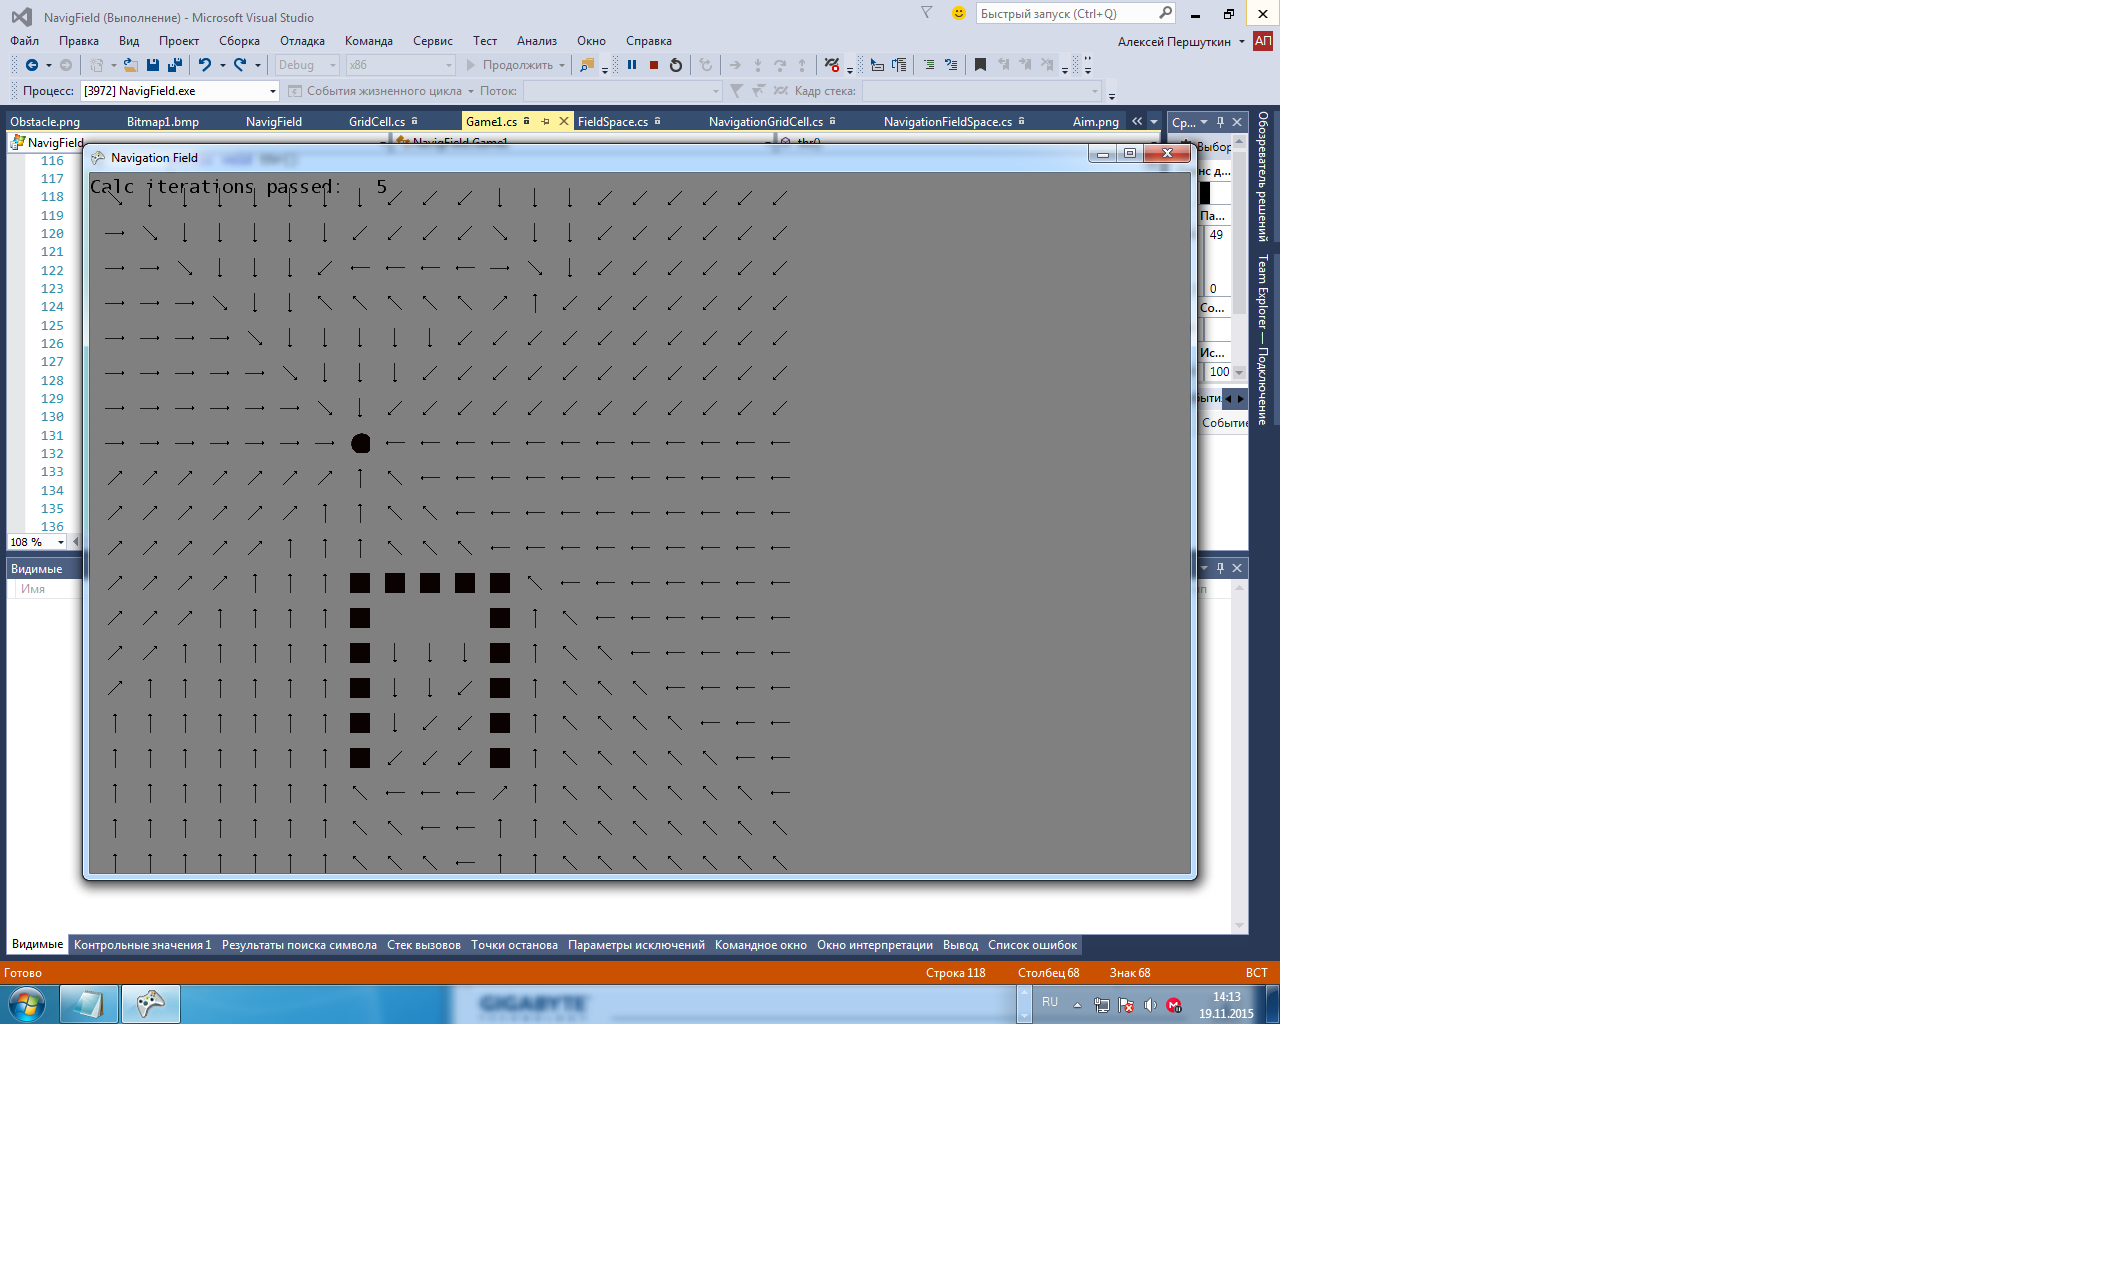
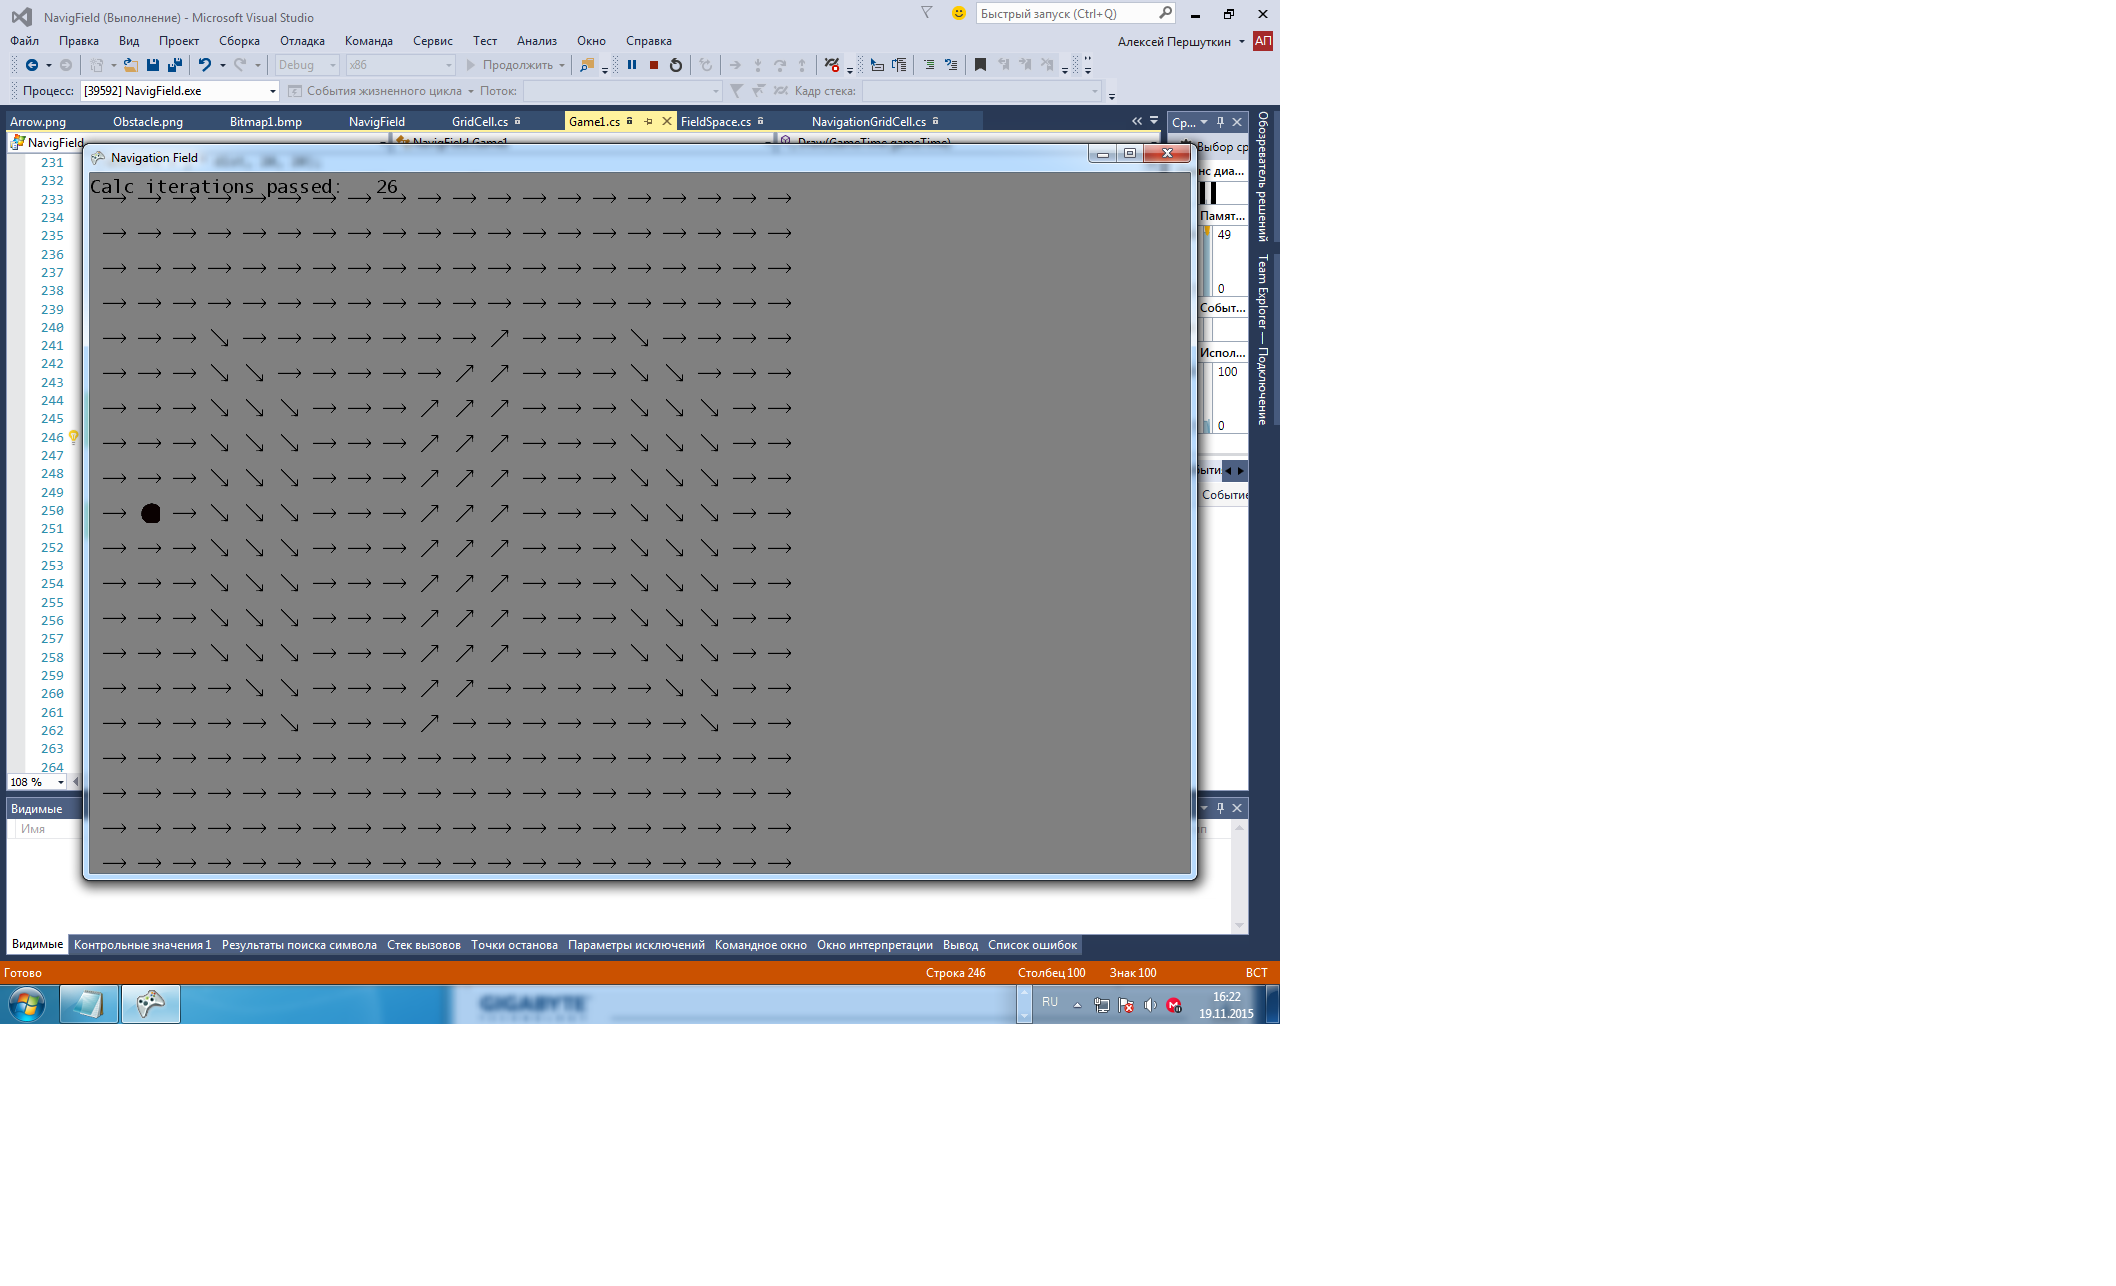
Runnable template was maximized and became more informative.

diff --git a/NavigField/NavigField/Game1.cs b/NavigField/NavigField/Game1.cs
@@ -38,8 +38,7 @@ namespace NavigField
                 
         FieldSpace GuidanseFieldSpace1;
         NavigationFieldSpace NavigationFieldSpace1;
-
-        
+     
 
         public Game1()
         {            
@@ -71,10 +70,10 @@ namespace NavigField
                 for (int j = 0; j < 10; j++)
                     GuidanseFieldSpace1.UpdateCell(false, i, j, 0 * Math.PI/4, 0);
                         
-            NavigationFieldSpace1 = new NavigationFieldSpace();
+            NavigationFieldSpace1 = new NavigationFieldSpace(50, 30);
 
             System.Threading.Thread t = new System.Threading.Thread(thr);
-            NavigationFieldSpace1.sleepTime = 1;
+            NavigationFieldSpace1.sleepTime = 10;
             t.Start();
 
 
@@ -184,21 +183,49 @@ namespace NavigField
                 a0 = Math.Asin(sin);
 
                 */
-                double[] a = { Math.PI / 4, Math.PI / 4, Math.PI / 4, 0, 0, 0, -Math.PI / 4, -Math.PI / 4, -Math.PI / 4, 0, 0, 0, Math.PI / 4, Math.PI / 4, Math.PI / 4 };
-                int[] dy = { 1, 2, 3, 4, 5, 4, 3, 2, 1, 1, 0, 1, 1, 2, 3 };
+                double[] a = { Math.PI / 4, Math.PI / 4, Math.PI / 4, Math.PI / 4, Math.PI / 4, Math.PI / 4,
+                                0, 0, 0, 0, 0 -Math.PI / 4, -Math.PI / 4, -Math.PI / 4, -Math.PI / 4, 0, 0, 0};
+                int[] dy = { 1, 1, 2, 2, 3, 3, 4, 4, 4, 4, 4, 3, 3, 2, 2, 1, 1, 1 };
 
-            for (int x = 0; x < 15; x++)
-                for (int y = 0 + dy[x]; y < 10 + dy[x]; y++)
+            for (int x = 0; x < 17; x++)
+                for (int y = 0 + dy[x]; y < 21 + dy[x]; y++)
                 {
                     NavigationFieldSpace1.FieldArray[x + 3, y + 3].angle = a[x];
-                    NavigationFieldSpace1.FieldArray[x + 3, y + 3].amplitude = 0.99;
+                    NavigationFieldSpace1.FieldArray[x + 3, y + 3].amplitude = 0.7;
                 }
-          //  }
+            
+            for (int x = 17; x < 22; x++)
+                for (int y = 0 + dy[x - 17]; y < 21 + dy[x - 17]; y++)
+                {
+                    NavigationFieldSpace1.FieldArray[x + 3, y + 3].angle = a[x - 17];
+                    NavigationFieldSpace1.FieldArray[x + 3, y + 3].amplitude = 0.7;
+                }
+            //  }
+            /*
+
+            Creating complex-aim cost propagating algoritm
+
+            int xAimIndex = 1;
+            int yAimIndex = 10;
+
+            NavigationFieldSpace1.NavigFieldArray[xAimIndex, yAimIndex].isAim = true;
+            NavigationFieldSpace1.NavigFieldArray[xAimIndex, yAimIndex].pathCost = 0;
+            
+            NavigationFieldSpace1.NavigFieldArray[xAimIndex, yAimIndex].calcIterationsPassed = 1;
+            NavigationFieldSpace1.NavigFieldArray[xAimIndex, yAimIndex].wasCalculated = true;
+
+            xAimIndex = 1;
+            yAimIndex = 11;
+
+            NavigationFieldSpace1.NavigFieldArray[xAimIndex, yAimIndex].isAim = true;
+            NavigationFieldSpace1.NavigFieldArray[xAimIndex, yAimIndex].pathCost = 0;
+
+            NavigationFieldSpace1.NavigFieldArray[xAimIndex, yAimIndex].calcIterationsPassed = 1;
+            NavigationFieldSpace1.NavigFieldArray[xAimIndex, yAimIndex].wasCalculated = true;
+            */
+            NavigationFieldSpace1.CalculateFieldForAim(1, 14, 1, 50);
 
             
-
-
-                    NavigationFieldSpace1.CalculateFieldForAim(1, 9, 1, 50);
         }
 
         protected override void Draw(GameTime gameTime)
@@ -207,6 +234,7 @@ namespace NavigField
 
             arrow.Begin();
             aim.Begin();
+            
             obstacle.Begin();            
 
                 arrow.DrawString(SpriteFont1, 
@@ -216,8 +244,10 @@ namespace NavigField
 
                 int xDrawCoord = 25;
                 int yDrawCoord = 25;
+                
+                int dist = 20;
 
-                int dist = 35;
+            
                       
             
                 for (int i = 0; i < NavigationFieldSpace1.xSize; i++)
@@ -228,7 +258,7 @@ namespace NavigField
 
                         if (NavigationGridCell1.isAim)
                         {
-                            aimDestination = new Rectangle(xDrawCoord + i * dist, yDrawCoord + j * dist, 20, 20);
+                            aimDestination = new Rectangle(xDrawCoord + i * dist, yDrawCoord + j * dist, 10, 10);
                             aim.Draw(aimTexture, aimDestination, aimSource, bckgrColor, 0, new Vector2(50, 50), SpriteEffects.None, 0);
 
                             continue;
@@ -236,13 +266,13 @@ namespace NavigField
 
                         if (NavigationGridCell1.isObstacle)
                         {
-                            obstacleDestination = new Rectangle(xDrawCoord + i * dist, yDrawCoord + j * dist, 20, 20);
+                            obstacleDestination = new Rectangle(xDrawCoord + i * dist, yDrawCoord + j * dist, 10, 10);
                             obstacle.Draw(obstacleTexture, obstacleDestination, obstacleSource, bckgrColor, 0, new Vector2(50, 50), SpriteEffects.None, 0);
 
                             continue;
                         }
                         var v = (int)Math.Round(20.0 * NavigationGridCell1.amplitude / NavigationFieldSpace1.preferredVelocity);
-                        arrowDestination = new Rectangle(xDrawCoord + i * dist, yDrawCoord + j * dist, 25 + 0*(int)Math.Round(25 * NavigationGridCell1.amplitude / NavigationFieldSpace1.preferredVelocity), 10);
+                        arrowDestination = new Rectangle(xDrawCoord + i * dist, yDrawCoord + j * dist, 15 + 0*(int)Math.Round(15 * NavigationGridCell1.amplitude / NavigationFieldSpace1.preferredVelocity), 10);
                         arrow.Draw(arrowTexture, arrowDestination, arrowSource, bckgrColor, (float)NavigationGridCell1.angle, new Vector2(35, 13), SpriteEffects.None, 0);
 
                     

diff --git a/NavigField/NavigField/NavigationFieldSpace.cs b/NavigField/NavigField/NavigationFieldSpace.cs
@@ -15,7 +15,7 @@ namespace NavigField
         private delegate int Del(int xCurrent, int yCurrent, int xIsCalculated, int yIsCalculated);
 
 
-        public NavigationFieldSpace(int xSize_tmp = 20, int ySize_tmp = 20)
+        public NavigationFieldSpace(int xSize_tmp = 100, int ySize_tmp =100)
         {
             xSize = xSize_tmp;
             ySize = ySize_tmp;
@@ -138,7 +138,6 @@ namespace NavigField
 
             double guidVector;
             double a = 0;
-            double PI = Math.PI;
 
             if (currentXPredecessor - xIsCalculated != 0)
             {
